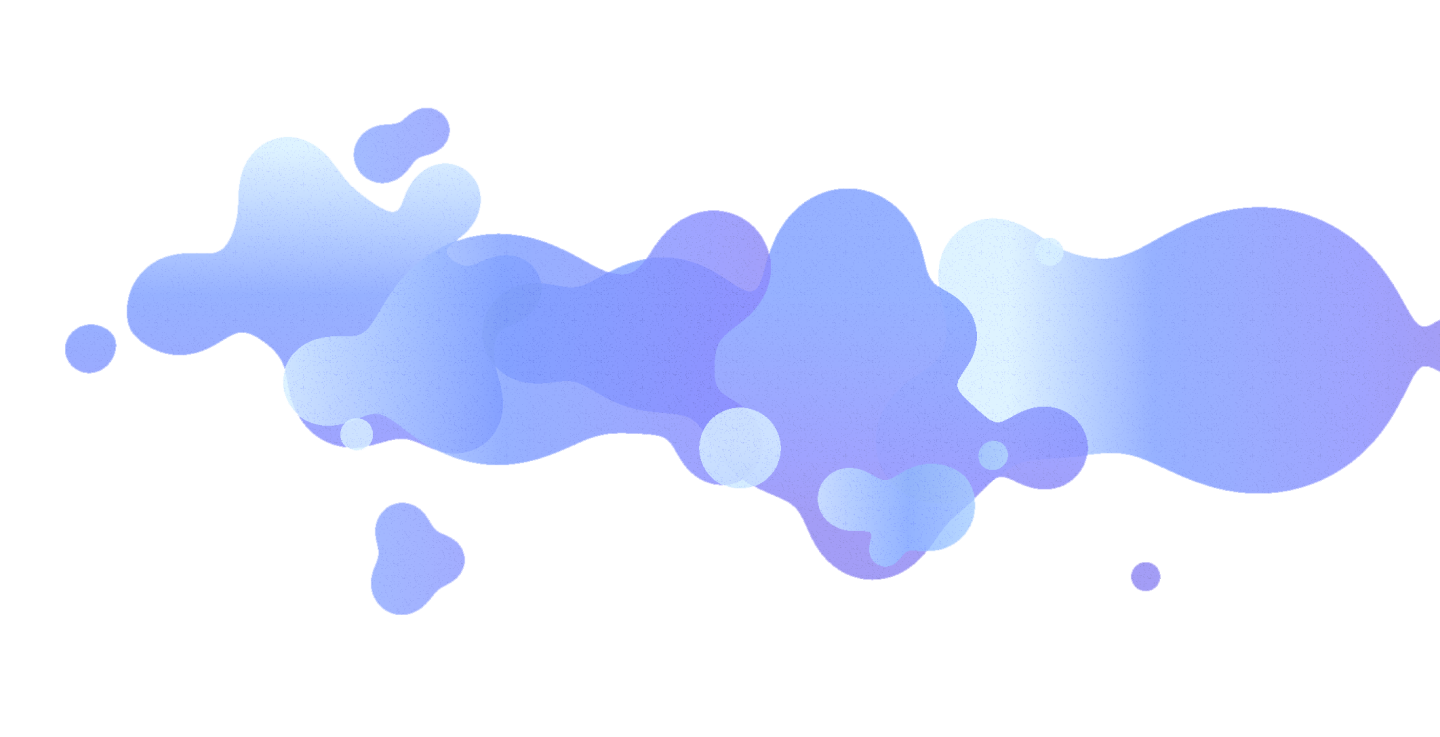
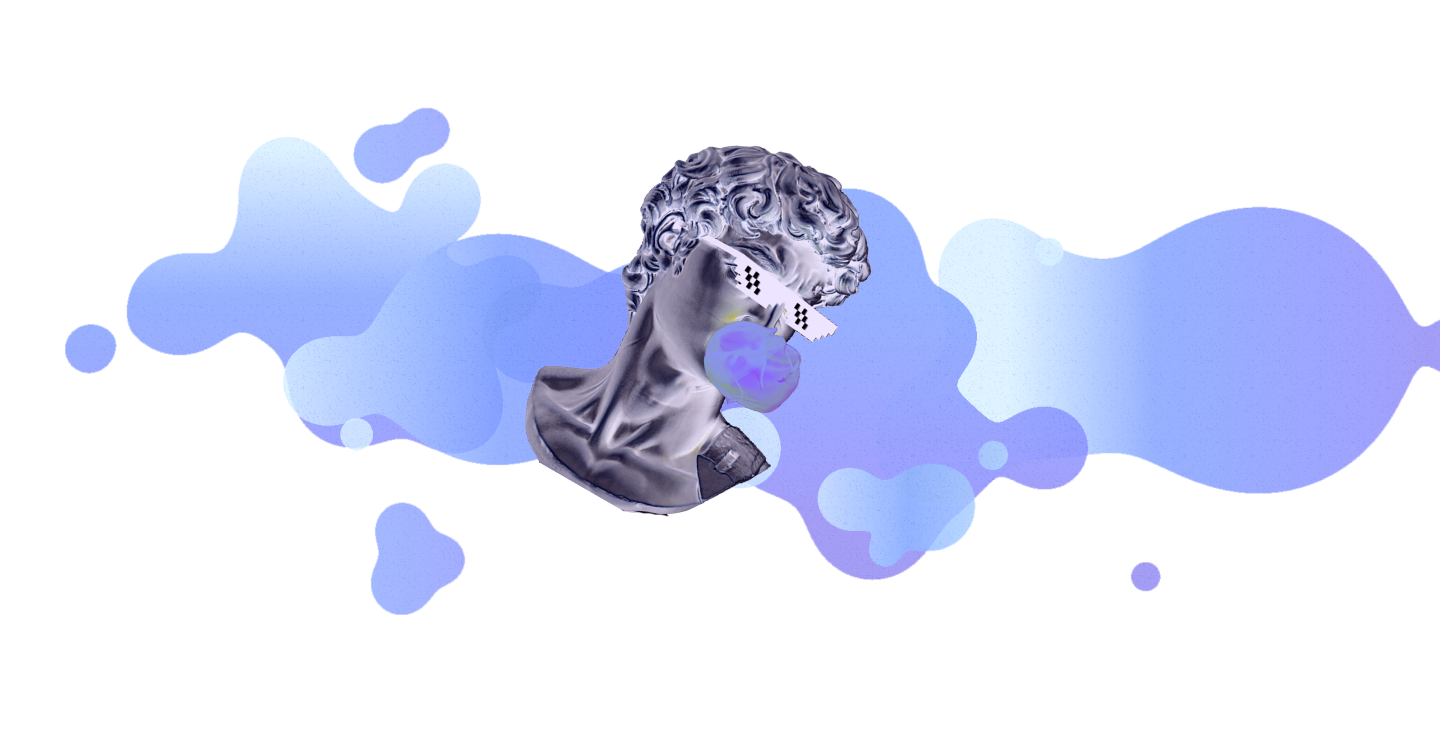
feat: Update 404 Style

Changed region(s): [[0.3438, 0.1872, 0.625, 0.7178]]

diff --git a/src/views/404.vue b/src/views/404.vue
@@ -1,48 +1,42 @@
 <template>
-  <div class="container-bg">
-    <img src="@/assets/image/nft-hero.png">
-    <p>{{ $t('error_page.message') }}</p>
-    <div class="mt-3">
-      <BaseRoundButton
-        class="send-btn btn-primary btn-md"
-        :text="$t('error_page.btn')"
-      />
-    </div>
+  <div class="container">
+    <h1 class="error-title">
+      {{ $t('error_page.message') }}
+    </h1>
+    <img
+      class="error-image"
+      src="@img/bg-404.png"
+    >
+    <BaseRoundButton
+      class="home-btn btn-primary btn-xxl"
+      :text="$t('error_page.btn')"
+      url="/"
+    />
   </div>
 </template>
 
 <style scoped>
-.container-bg {
-  background-image: url('../assets/image/bg-404.png');
-  background-position: center;
-  background-repeat: no-repeat;
-  background-size: cover;
-  margin-top: -4rem;
-  position: absolute;
-  right: 0.4rem;
-  text-align: center;
-  width: 100%;
+.container {
+  margin-top: -6rem;
 }
 
-.container-bg img {
-  width: 22rem;
+.error-image {
+  margin-left: -8.125rem;
+  width: 90rem;
 }
 
-.container-bg p {
+.error-title {
   color: #fff;
-  font-size: 1.7rem;
-  left: 0;
-  margin-top: -12rem;
+  font-size: 4rem;
+  margin: auto auto;
+  margin-top: 20rem;
   position: absolute;
-  right: 0;
-}
-
-.mt-3 {
-  margin: 3rem;
   text-align: center;
+  width: 73.75rem;
 }
 
-.mt-3 button {
-  display: initial;
+.home-btn {
+  margin: auto auto;
+  margin-top: -5rem;
 }
 </style>

diff --git a/src/components/UI/BaseScrollableSelectBox.vue b/src/components/UI/BaseScrollableSelectBox.vue
@@ -42,6 +42,13 @@
         class="selector-menu"
         :style="{'--border-color': customCSS['--border-color']}"
       >
+        <!-- <div class="selector-options">
+          <input
+            v-model="searchValue"
+            class="search-bar"
+            type="search"
+          >
+        </div> -->
         <div
           v-for="(item, index) in options"
           :key="index"
@@ -240,4 +247,13 @@ export default {
   transform: rotate(-180deg);
   transition: transform 150ms ease;
 }
+
+/* .search-bar {
+  background-color: transparent;
+  border: 0;
+  border-bottom: 0.1rem #fff solid;
+  color: #fff;
+  outline: 0;
+  padding: 0 0  0;
+} */
 </style>

diff --git a/src/components/UI/BaseRoundButton.vue b/src/components/UI/BaseRoundButton.vue
@@ -115,6 +115,9 @@ export default {
 }
 
 /* Button Size Classes */
+.btn-xxl {
+  padding: 0.8125rem 3.875rem;
+}
 
 .btn-xl {
   padding: 0.75rem 2.5rem;
